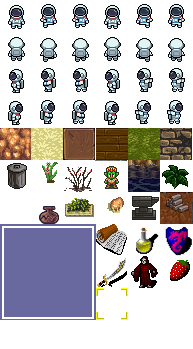
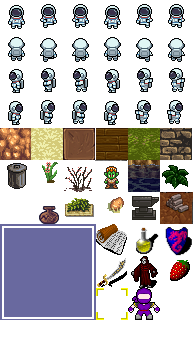
initialize boss fight, will refactor it later it is not stable at all or working fine and have some several issues

Changed region(s): [[0.6528, 0.8023, 0.8394, 0.9169]]

diff --git a/entities/boss.c b/entities/boss.c
@@ -1,0 +1,117 @@
+#include "boss.h"
+#include "SDL3/SDL_render.h"
+#include "SDL3/SDL_stdinc.h"
+#include "SDL3_ttf/SDL_ttf.h"
+#include "items.h"
+#include "player.h"
+#include "../map/map.h"
+#include "../dialogs/dialogs.h"
+
+Boss_t *bosses = NULL;
+static SDL_Texture *player_info = NULL;
+static SDL_Texture *boss_info = NULL;
+
+int init_bosses()
+{
+    bosses = SDL_malloc(5 * sizeof(Boss_t));
+    
+    if(!bosses) return 1;
+
+    bosses[0] = (Boss_t){
+        "Boss?",
+        (SDL_FRect){4 * MAP_SPRITE_SIZE, 9*MAP_SPRITE_SIZE , 32, 32},
+        (Static_Status_t){50, 10, 5, 5, 5, 5, 5}
+    };
+
+    return 0;
+}
+
+int generate_info(int boss_id)
+{
+    if(boss_info) SDL_DestroyTexture(boss_info); boss_info = NULL;
+    if(player_info) SDL_DestroyTexture(player_info); player_info = NULL;
+
+    char text[32];
+    text[0] = '\0';
+    SDL_snprintf(text, 32, "Name %s \n HP: %d", bosses[boss_id].name, bosses[boss_id].base.HP);
+    boss_info = text2texture(text, 200, NULL);
+    
+    char text2[64];
+    int atk = player->base.ATK + ((player->status.EQW == -1) ? 0 : item_list[player->status.EQW].status.ATK);
+    int def = player->base.DEF + ((player->status.EQS == -1) ? 0 : item_list[player->status.EQW].status.DEF);
+    SDL_snprintf(
+        text2, 32,
+         "PLAYER\n HP: %d LCK: %d\nATK: %d DEF:%d", 
+        player->status.CHP, player->base.LCK,
+        atk, def 
+    );
+    player_info = text2texture(text2, 200, NULL);
+
+    return 0;
+}
+
+
+void render_battel(int boss_id)
+{
+    SDL_FRect dst, src;
+    src = (SDL_FRect){0 * MAP_SPRITE_SIZE, 7* MAP_SPRITE_SIZE, 3*MAP_SPRITE_SIZE, 3*MAP_SPRITE_SIZE};
+    dst = (SDL_FRect){0, 0, CAMERA_X_CELLS*MAP_CELL_SIZE, CAMERA_Y_CELLS*MAP_CELL_SIZE};
+    SDL_RenderTexture(renderer, map_texture, &src, &dst);
+
+    dst = (SDL_FRect){(CAMERA_X_CELLS - 10)*50, 200, 300, 300};
+    SDL_RenderTexture(renderer, map_texture, &bosses[boss_id].sprite, &dst);
+    src = (SDL_FRect){0, 0, 32, 32};
+    dst = (SDL_FRect){(2)*50, 200, 300, 300};
+    SDL_RenderTexture(renderer, map_texture, &src, &dst);
+    
+    dst = (SDL_FRect){(2)*50, 500, 200, TTF_GetFontLineSkip(font) * 2};
+    SDL_RenderTexture(renderer, player_info, NULL, &dst);
+    
+    dst = (SDL_FRect){(CAMERA_X_CELLS - 10)*50, 500, 200, TTF_GetFontLineSkip(font) * 2};
+    SDL_RenderTexture(renderer, boss_info, NULL, &dst);
+}
+
+void fight(int boss_id)
+{
+    int atk = player->base.ATK + ((player->status.EQW == -1) ? 0 : item_list[player->status.EQW].status.ATK);
+    int def = player->base.DEF + ((player->status.EQS == -1) ? 0 : item_list[player->status.EQW].status.DEF);
+
+    int player_atk = SDL_rand(player->base.LCK) * (atk/2);
+    int player_def = (SDL_rand(player->base.LCK) * (def/2)) / 2;
+
+    int comp_atk = SDL_rand(bosses[boss_id].base.LCK) * (bosses[boss_id].base.ATK/2);
+    int comp_def = (SDL_rand(bosses[boss_id].base.LCK) * (bosses[boss_id].base.DEF/2)) / 2;
+
+    int player_dmg = comp_atk - player_def;
+    int comp_dmg = player_atk - comp_def;
+
+    char text[64]; text[0] = '\0';
+    SDL_snprintf(text, 64, "Player made attack with %d damage", comp_dmg);
+
+    char text2[64]; text2[0] = '\0';
+    SDL_snprintf(text2, 64, "%s made made attack %d damage", bosses[boss_id].name, player_dmg);
+    
+    SDL_FRect src = {0, 0, 32, 32};
+    redner_dialog_by_id(-1, &src, 0, text);
+    player->status.CHP -= player_dmg;
+
+    redner_dialog_by_id(-1, &bosses[boss_id].sprite, 0, text2);
+    bosses[boss_id].base.HP -= comp_dmg;
+
+    generate_info(boss_id);
+
+    if(player->status.CHP <= 0){
+        char *text = "Boss Win!";
+        redner_dialog_by_id(-1, &src, 0, text);
+        current_screen = GAME;
+        if(boss_info) SDL_DestroyTexture(boss_info); boss_info = NULL;
+        if(player_info) SDL_DestroyTexture(boss_info); player_info = NULL;
+    }
+    if(bosses[boss_id].base.HP <= 0){
+        char *text = "Player Win!";
+        redner_dialog_by_id(-1, &src, 0, text);
+        current_screen = GAME;
+        if(boss_info) SDL_DestroyTexture(boss_info); boss_info = NULL;
+        if(player_info) SDL_DestroyTexture(boss_info); player_info = NULL;
+    }
+}

diff --git a/map/map.c b/map/map.c
@@ -4,6 +4,7 @@
 #include "../entities/entity.h"
 #include "../entities/npc.h"
 #include "../entities/items.h"
+#include "../entities/boss.h"
 
 // Make a large array for map meta info to access later
 Map_cell *map_info = NULL;
@@ -104,12 +105,16 @@ void map_load(void){
             id = 2; type = ITEM; sx = 4; sy = 4;
         }
 
+        if((x == 50 && y == 45)){
+            id = 0; type = BOSS; sx = 4; sy = 4;
+        }
+
+
         if(x ==  0 || y == 0 || x == (MAP_ROWS - 1) || y == (MAP_COLS - 1)){
             sx = 2; type = ENTITY; id = 6;
         }
 
         
-
         map_info[i] = (Map_cell){
             .sprite = {sx*MAP_SPRITE_SIZE, sy*MAP_SPRITE_SIZE, MAP_SPRITE_SIZE, MAP_SPRITE_SIZE},
             .tile = {(x)*MAP_CELL_SIZE, (y)*MAP_CELL_SIZE, MAP_CELL_SIZE, MAP_CELL_SIZE},
@@ -163,6 +168,10 @@ int map_render(void){
 
         if(map_info[index].type == ITEM){
             SDL_RenderTexture(renderer, map_texture, &item_list[map_info[index].id].sprite , &screen_position);
+        }
+
+        if(map_info[index].type == BOSS){
+            SDL_RenderTexture(renderer, map_texture, &bosses[map_info[index].id].sprite , &screen_position);
         }
     }
     return 0;

diff --git a/entities/items.c b/entities/items.c
@@ -42,7 +42,7 @@ int init_items()
 {
     item_list = SDL_malloc(sizeof(Items_t) * 5);
     if(!item_list) return 1;
-    Static_Status_t example = {0, 0, 0, 0, 0, 0, 0};
+    Static_Status_t example = {0};
 
     item_list[0] = (Items_t){
         .type = KEY,
@@ -58,7 +58,7 @@ int init_items()
         .name = "great sowrd\n",
         .description = "sowrd increase your attack and luck",
         .function_id = -1,
-        .status = example,
+        .status = {0, 5, 0, 0, 0, 0, 0},
         .sprite = { 3 * MAP_SPRITE_SIZE, 8 * MAP_SPRITE_SIZE, MAP_SPRITE_SIZE, MAP_SPRITE_SIZE}
     };
 
@@ -67,7 +67,7 @@ int init_items()
         .name = "wierd Shield\n",
         .description = "a shield that have magic effect on your HP",
         .function_id = -1,
-        .status = example,
+        .status = {0, 0, 5, 0, 0, 0, 0},
         .sprite = { 5 * MAP_SPRITE_SIZE, 7 * MAP_SPRITE_SIZE, MAP_SPRITE_SIZE, MAP_SPRITE_SIZE}
     };
 

diff --git a/main.c b/main.c
@@ -1,4 +1,5 @@
 #include "SDL3/SDL_audio.h"
+#include "entities/boss.h"
 #include "global/globals.h"
 #include "global/system_events.h"
 
@@ -73,7 +74,9 @@ SDL_AppResult SDL_AppInit(void **appstate, int argc, char *argv[])
     if(init_audio_files()) return SDL_APP_FAILURE;
     if(init_stearms()) return SDL_APP_FAILURE;
 
-    SDL_SetAudioStreamGain(music, 1.0f);
+    if(init_bosses()) return SDL_APP_FAILURE;
+
+    // SDL_SetAudioStreamGain(music, 1.0f);
 
     return SDL_APP_CONTINUE;  /* carry on with the program! */
 }
@@ -90,9 +93,10 @@ SDL_AppResult SDL_AppEvent(void *appstate, SDL_Event *event)
         return SDL_APP_FAILURE;
     }
     
+    fight_input(event);
     return general_inputs(event);
 
-    return SDL_APP_CONTINUE;  /* carry on with the program! */
+    // return SDL_APP_CONTINUE;  /* carry on with the program! */
 }
 
 SDL_AppResult SDL_AppIterate(void *appstate)

diff --git a/global/system_events.c b/global/system_events.c
@@ -5,6 +5,7 @@
 #include "globals.h"
 #include "../dialogs/dialogs.h"
 #include "../entities/items.h"
+#include "../entities/boss.h"
 
 void joystick_connecting(SDL_Event *event)
 {
@@ -110,4 +111,16 @@ void inventory_inputs(SDL_Event *event)
     }
 
     return;
+}
+
+void fight_input(SDL_Event *event)
+{
+    if(current_screen != FIGHT) return;
+    if (event->type != SDL_EVENT_KEY_DOWN && event->type != SDL_EVENT_JOYSTICK_BUTTON_DOWN) return;
+        if(event->type == SDL_EVENT_KEY_DOWN){
+            if(event->key.key == SDLK_SPACE && current_screen == FIGHT && !current_dialog.rendering){
+                SDL_Log("do fight");
+                fight(1);
+        }
+    }
 }

diff --git a/entities/player.c b/entities/player.c
@@ -81,6 +81,8 @@ int init_player_struct()
     player->base.EVA = 5;
     player->base.SPD = 5;
 
+    player->status.CHP = 30;
+
     player->status.EQS = -1;
     player->status.EQW = -1;
 
@@ -283,6 +285,12 @@ void do_action()
             give_item(map_info[new_coord.index].id);
             play_sfx(2);
             map_info[new_coord.index].type = GROUND;
+        }
+        if(map_info[new_coord.index].type == BOSS)
+        {
+            play_sfx(2);
+            // map_info[new_coord.index].type = GROUND;
+            current_screen = FIGHT;
         }
     // }else{
         // char* text = "Hello World!";

diff --git a/mem/cleanup.c b/mem/cleanup.c
@@ -8,7 +8,9 @@
 #include "../game/actions.h"
 #include "../entities/npc.h"
 #include "../entities/items.h"
+#include "../entities/boss.h"
 #include "../audio/audio.h"
+#include "SDL3/SDL_stdinc.h"
 
 int clean_heaps(void){
     // SDL_free SDL Stuff
@@ -57,6 +59,9 @@ int clean_heaps(void){
 
     cleanup_audio();
 
+    if(bosses) SDL_free(bosses);
+    bosses = NULL;
+    
     /* SDL3 destroys window/renderer for us after SDL_AppQuit,
        but keep correct order (renderer before window) here. */
     if(renderer) SDL_DestroyRenderer(renderer);

diff --git a/game/gameloop.c b/game/gameloop.c
@@ -10,6 +10,7 @@
 
 #include "../entities/player.h"
 #include "../entities/items.h"
+#include "../entities/boss.h"
 
 #include "../physics/velocity.h"
 
@@ -38,6 +39,10 @@ void current_rendering_screen()
         case PLAYER_STATUS:
             player_statues();
             break;
+        
+        case FIGHT:
+            generate_info(0);
+            render_battel(0);
     }
 }
 

diff --git a/entities/boss.h b/entities/boss.h
@@ -1,0 +1,20 @@
+#ifndef BOSS_H
+#define BOSS_H
+#include "../global/globals.h"
+#include "player.h"
+
+typedef struct {
+    char name[16];
+    SDL_FRect sprite;
+    Static_Status_t base;
+} Boss_t;
+
+extern Boss_t *bosses;
+
+int init_bosses();
+int generate_info(int boss_id);
+void render_battel(int boss_id);
+void fight(int boss_id);
+
+
+#endif

diff --git a/entities/player.h b/entities/player.h
@@ -28,6 +28,7 @@ typedef struct {
     int LVL; // LeVeL
     int EQW; // EQuiped Weapon id
     int EQS; // EQuiped Shield id
+    int CHP; // Current Health Points
     Inventory_t inventory[50];
     unsigned int inventory_cusor;
     unsigned int index; // player possition

diff --git a/global/globals.h b/global/globals.h
@@ -29,7 +29,7 @@
 #include <unistd.h>
 #endif
 
-typedef enum { TILE_SCREEN, OPTIONS, GAME, INVENTORY, PLAYER_STATUS } Menu_t;
+typedef enum { FIGHT, TILE_SCREEN, OPTIONS, GAME, INVENTORY, PLAYER_STATUS } Menu_t;
 
 typedef enum {
     UP=1,

diff --git a/global/system_events.h b/global/system_events.h
@@ -7,5 +7,6 @@ void joystick_connecting(SDL_Event *event);
 SDL_AppResult general_inputs(SDL_Event *event);
 int player_inputs(SDL_Event *event);
 void inventory_inputs(SDL_Event *event);
+void fight_input(SDL_Event *event);
 
 #endif
